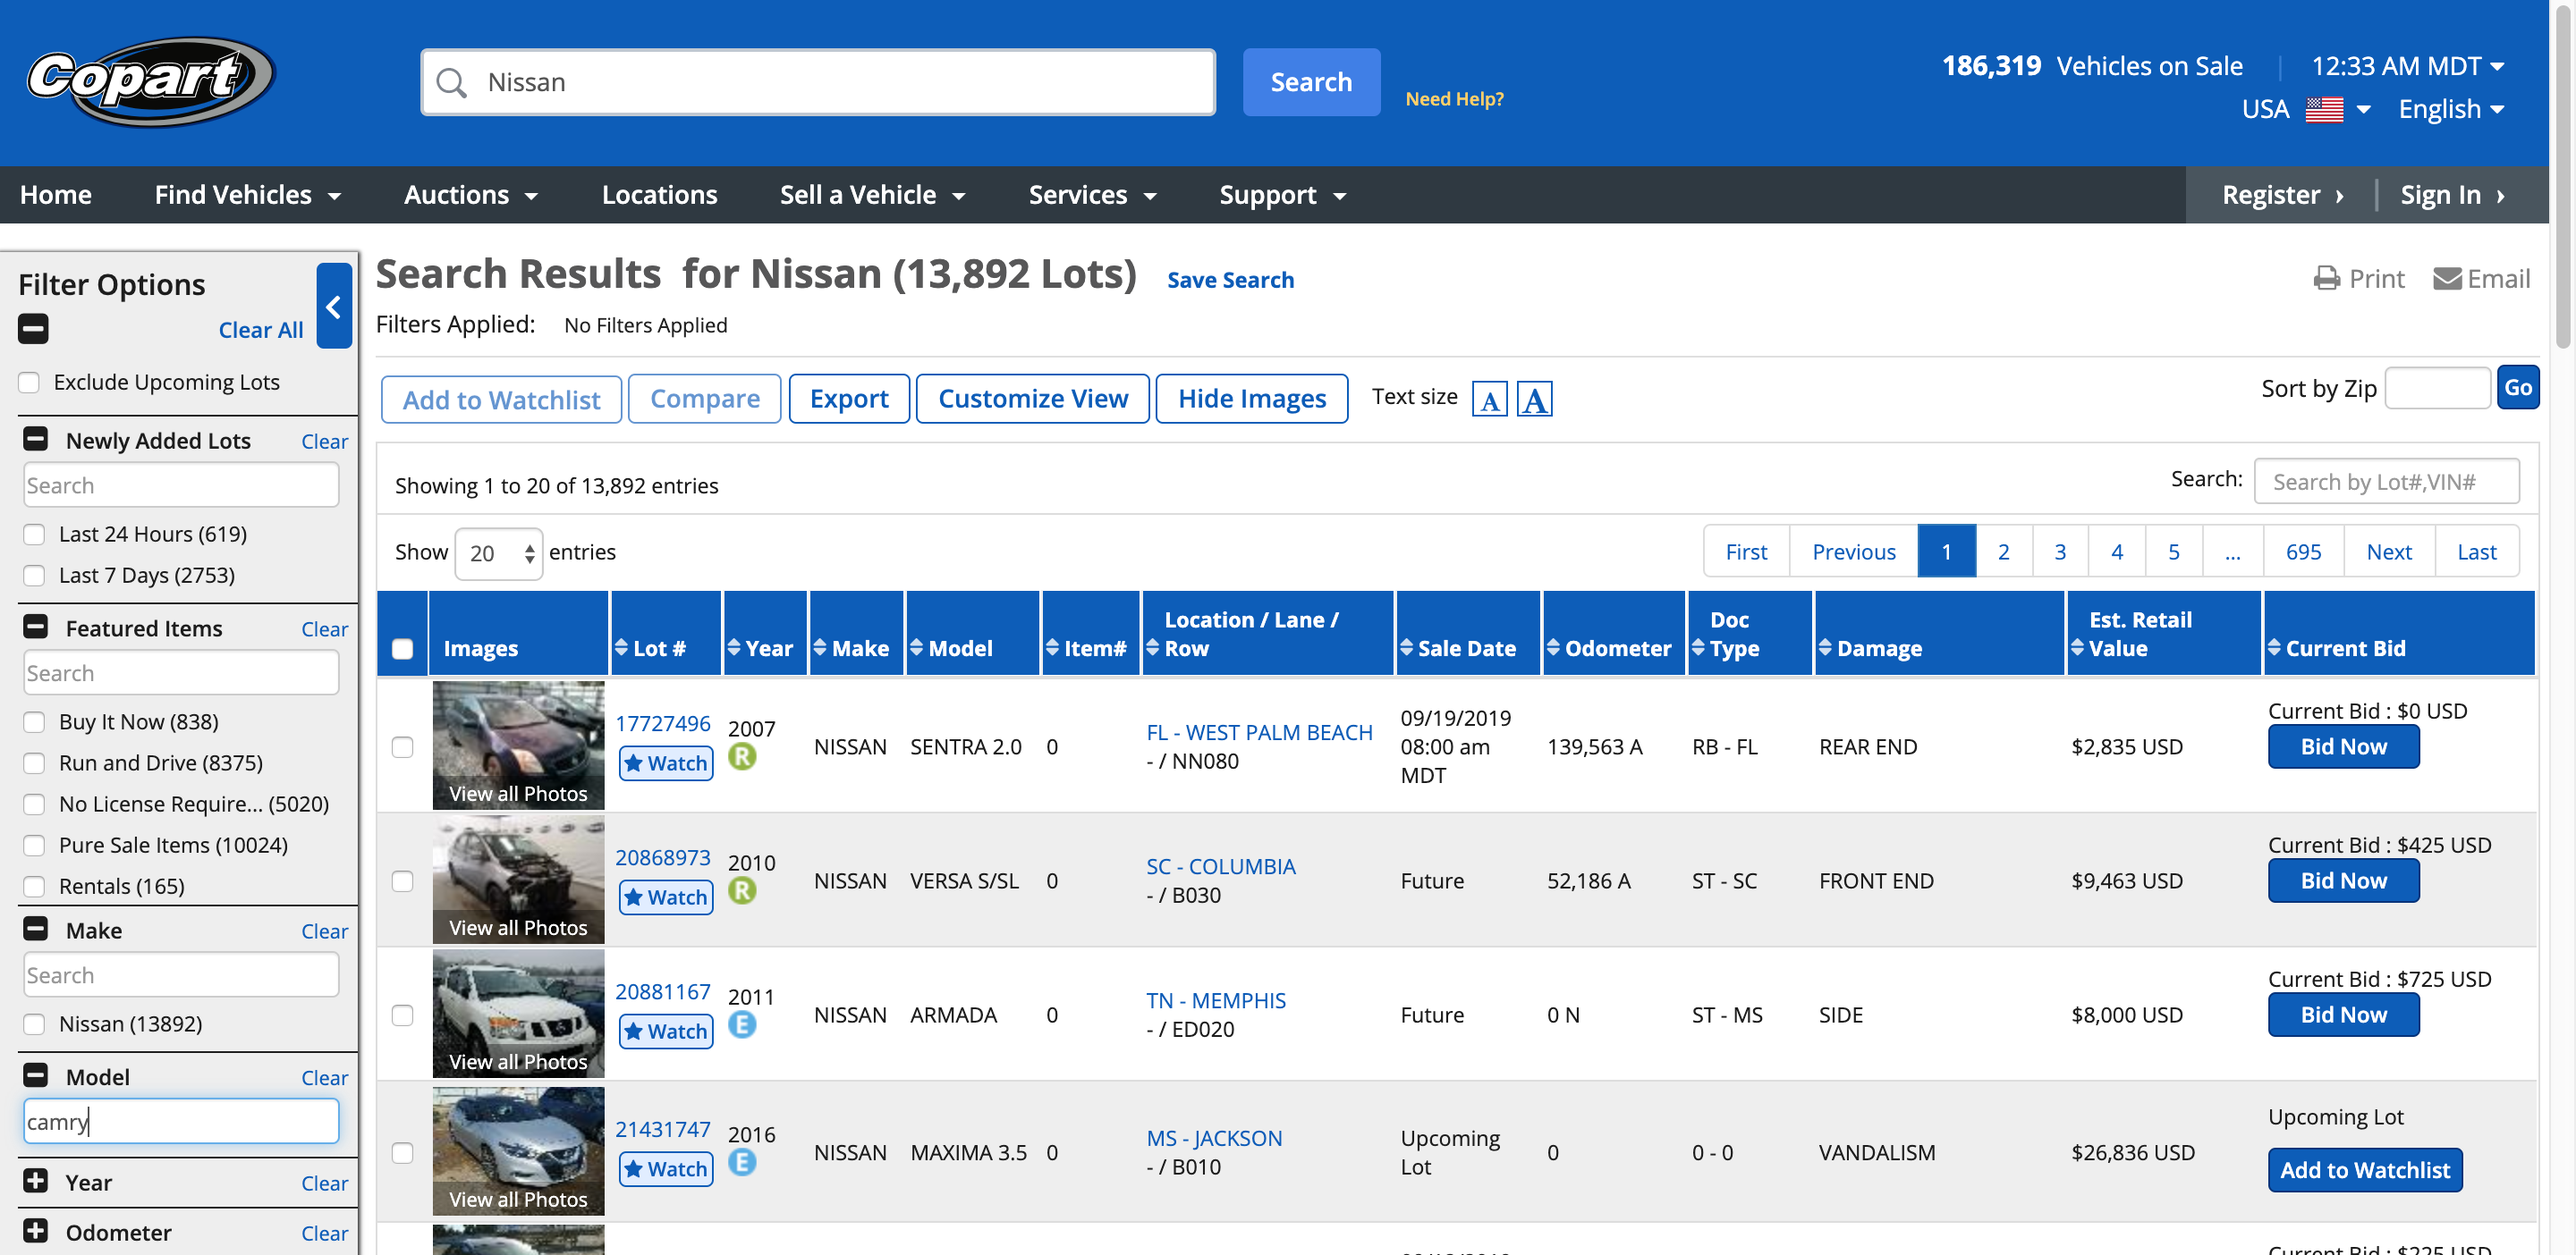
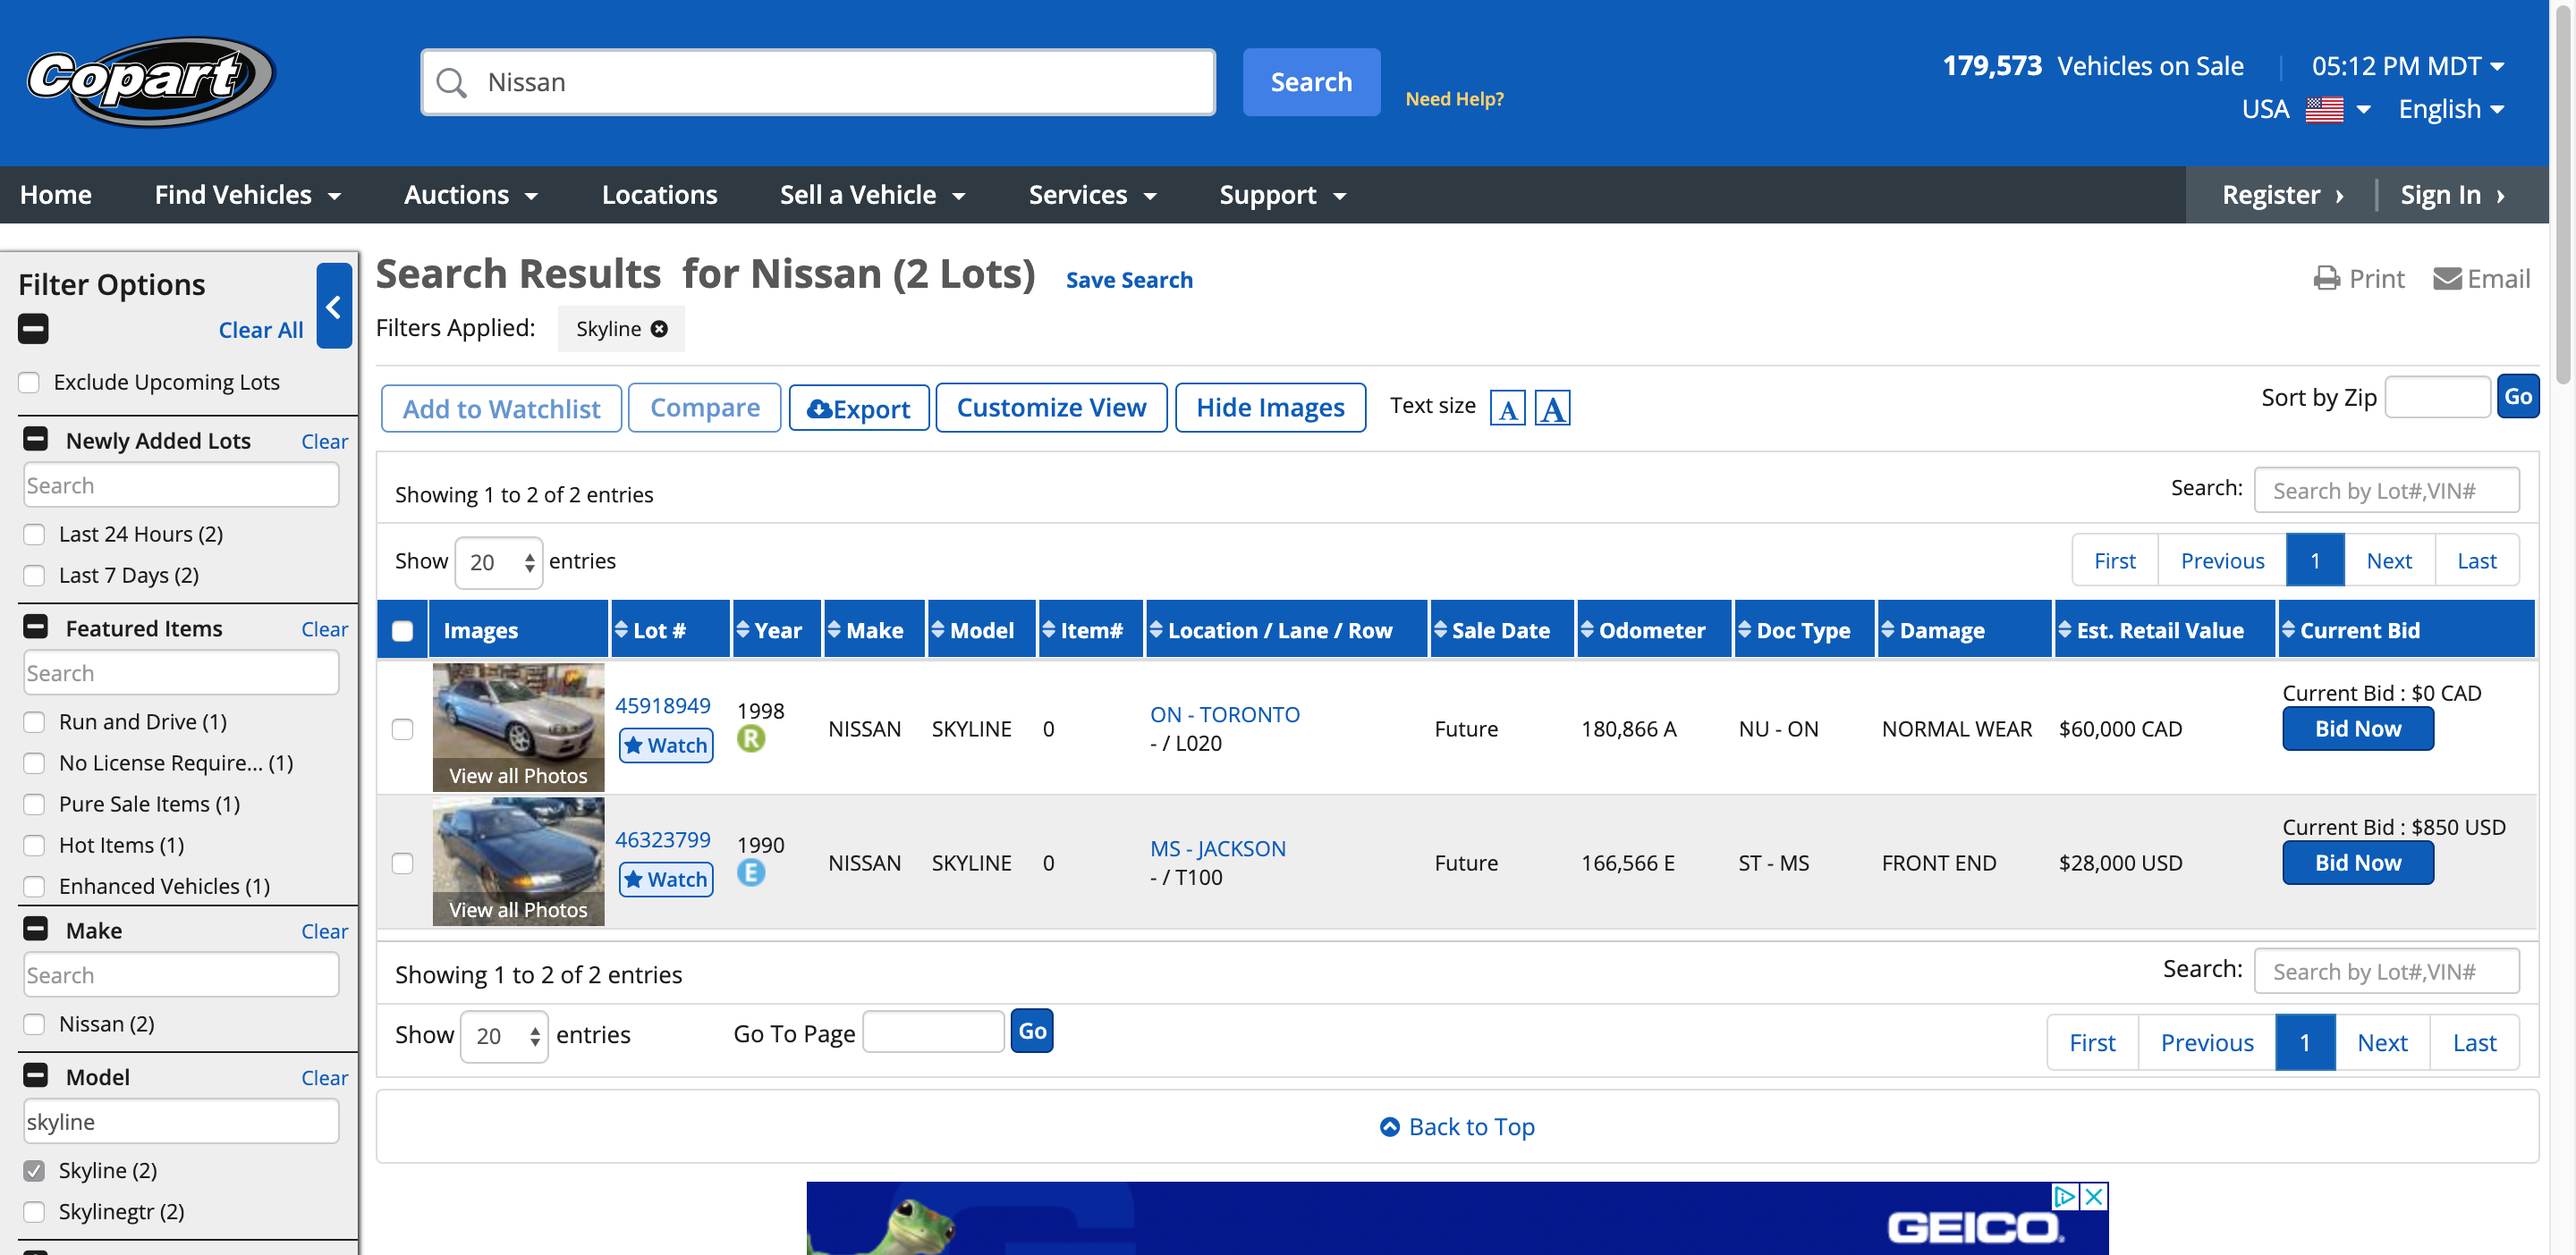
Working Challenge 6

diff --git a/challenges/challenge6.py b/challenges/challenge6.py
@@ -18,7 +18,7 @@ class Challenge6(unittest.TestCase):
 
 
     def test_error_handling(self):
-        wait = WebDriverWait(self.driver, 10)
+        wait = WebDriverWait(self.driver, 20)
 
         # search for Nissan
         search_input = wait.until(
@@ -42,9 +42,11 @@ class Challenge6(unittest.TestCase):
 
             self.driver.find_element_by_css_selector("input#lot_model_descSKYLINE").click()
             wait.until(
-               ec.visibility_of_element_located((By.CSS_SELECTOR, "table#serverSideDataTable tbody")))
-            body = self.driver.find_element_by_css_selector("table#serverSideDataTable tbody").text
-            self.assertIn("SKYLINE", body)
+                ec.text_to_be_present_in_element((By.CSS_SELECTOR, '[data-uname="lotsearchLotmodel"]'), "SKYLINE"))
+
+            model = self.driver.find_element_by_css_selector('[data-uname="lotsearchLotmodel"]')
+            models_name = model.get_attribute('innerText')
+            self.assertIn("SKYLINE", models_name)
 
         except:
             print('ERROR skyline not found')
